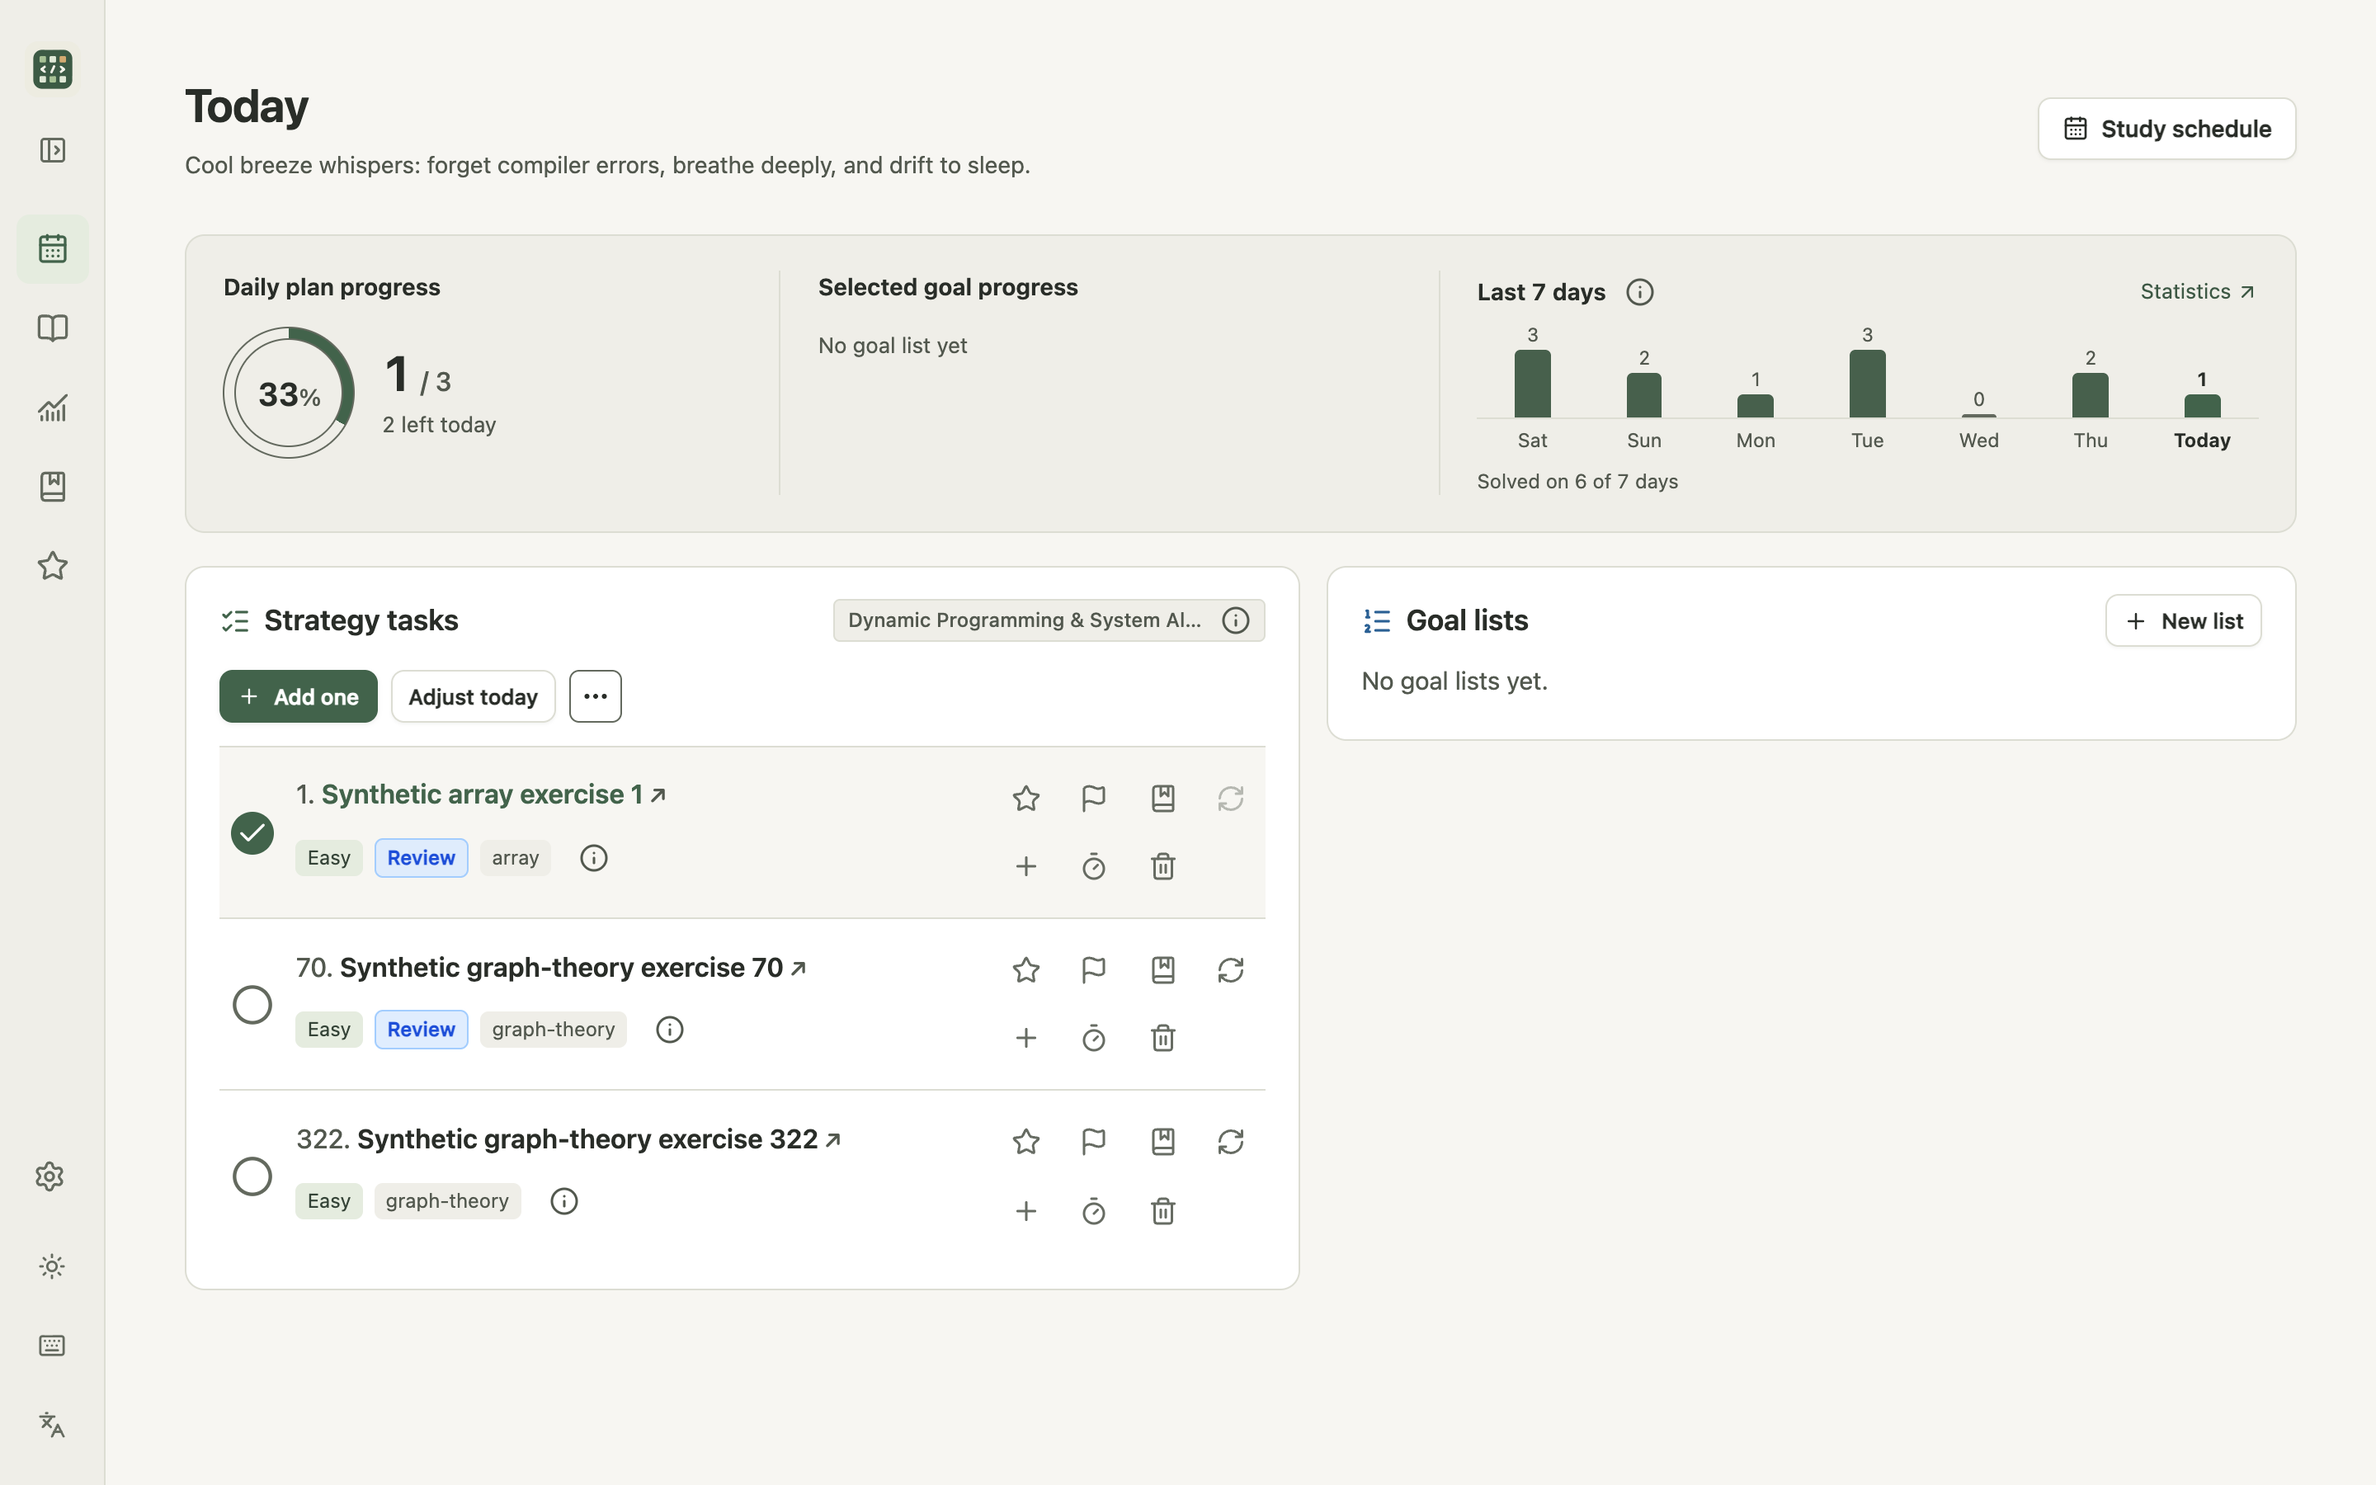
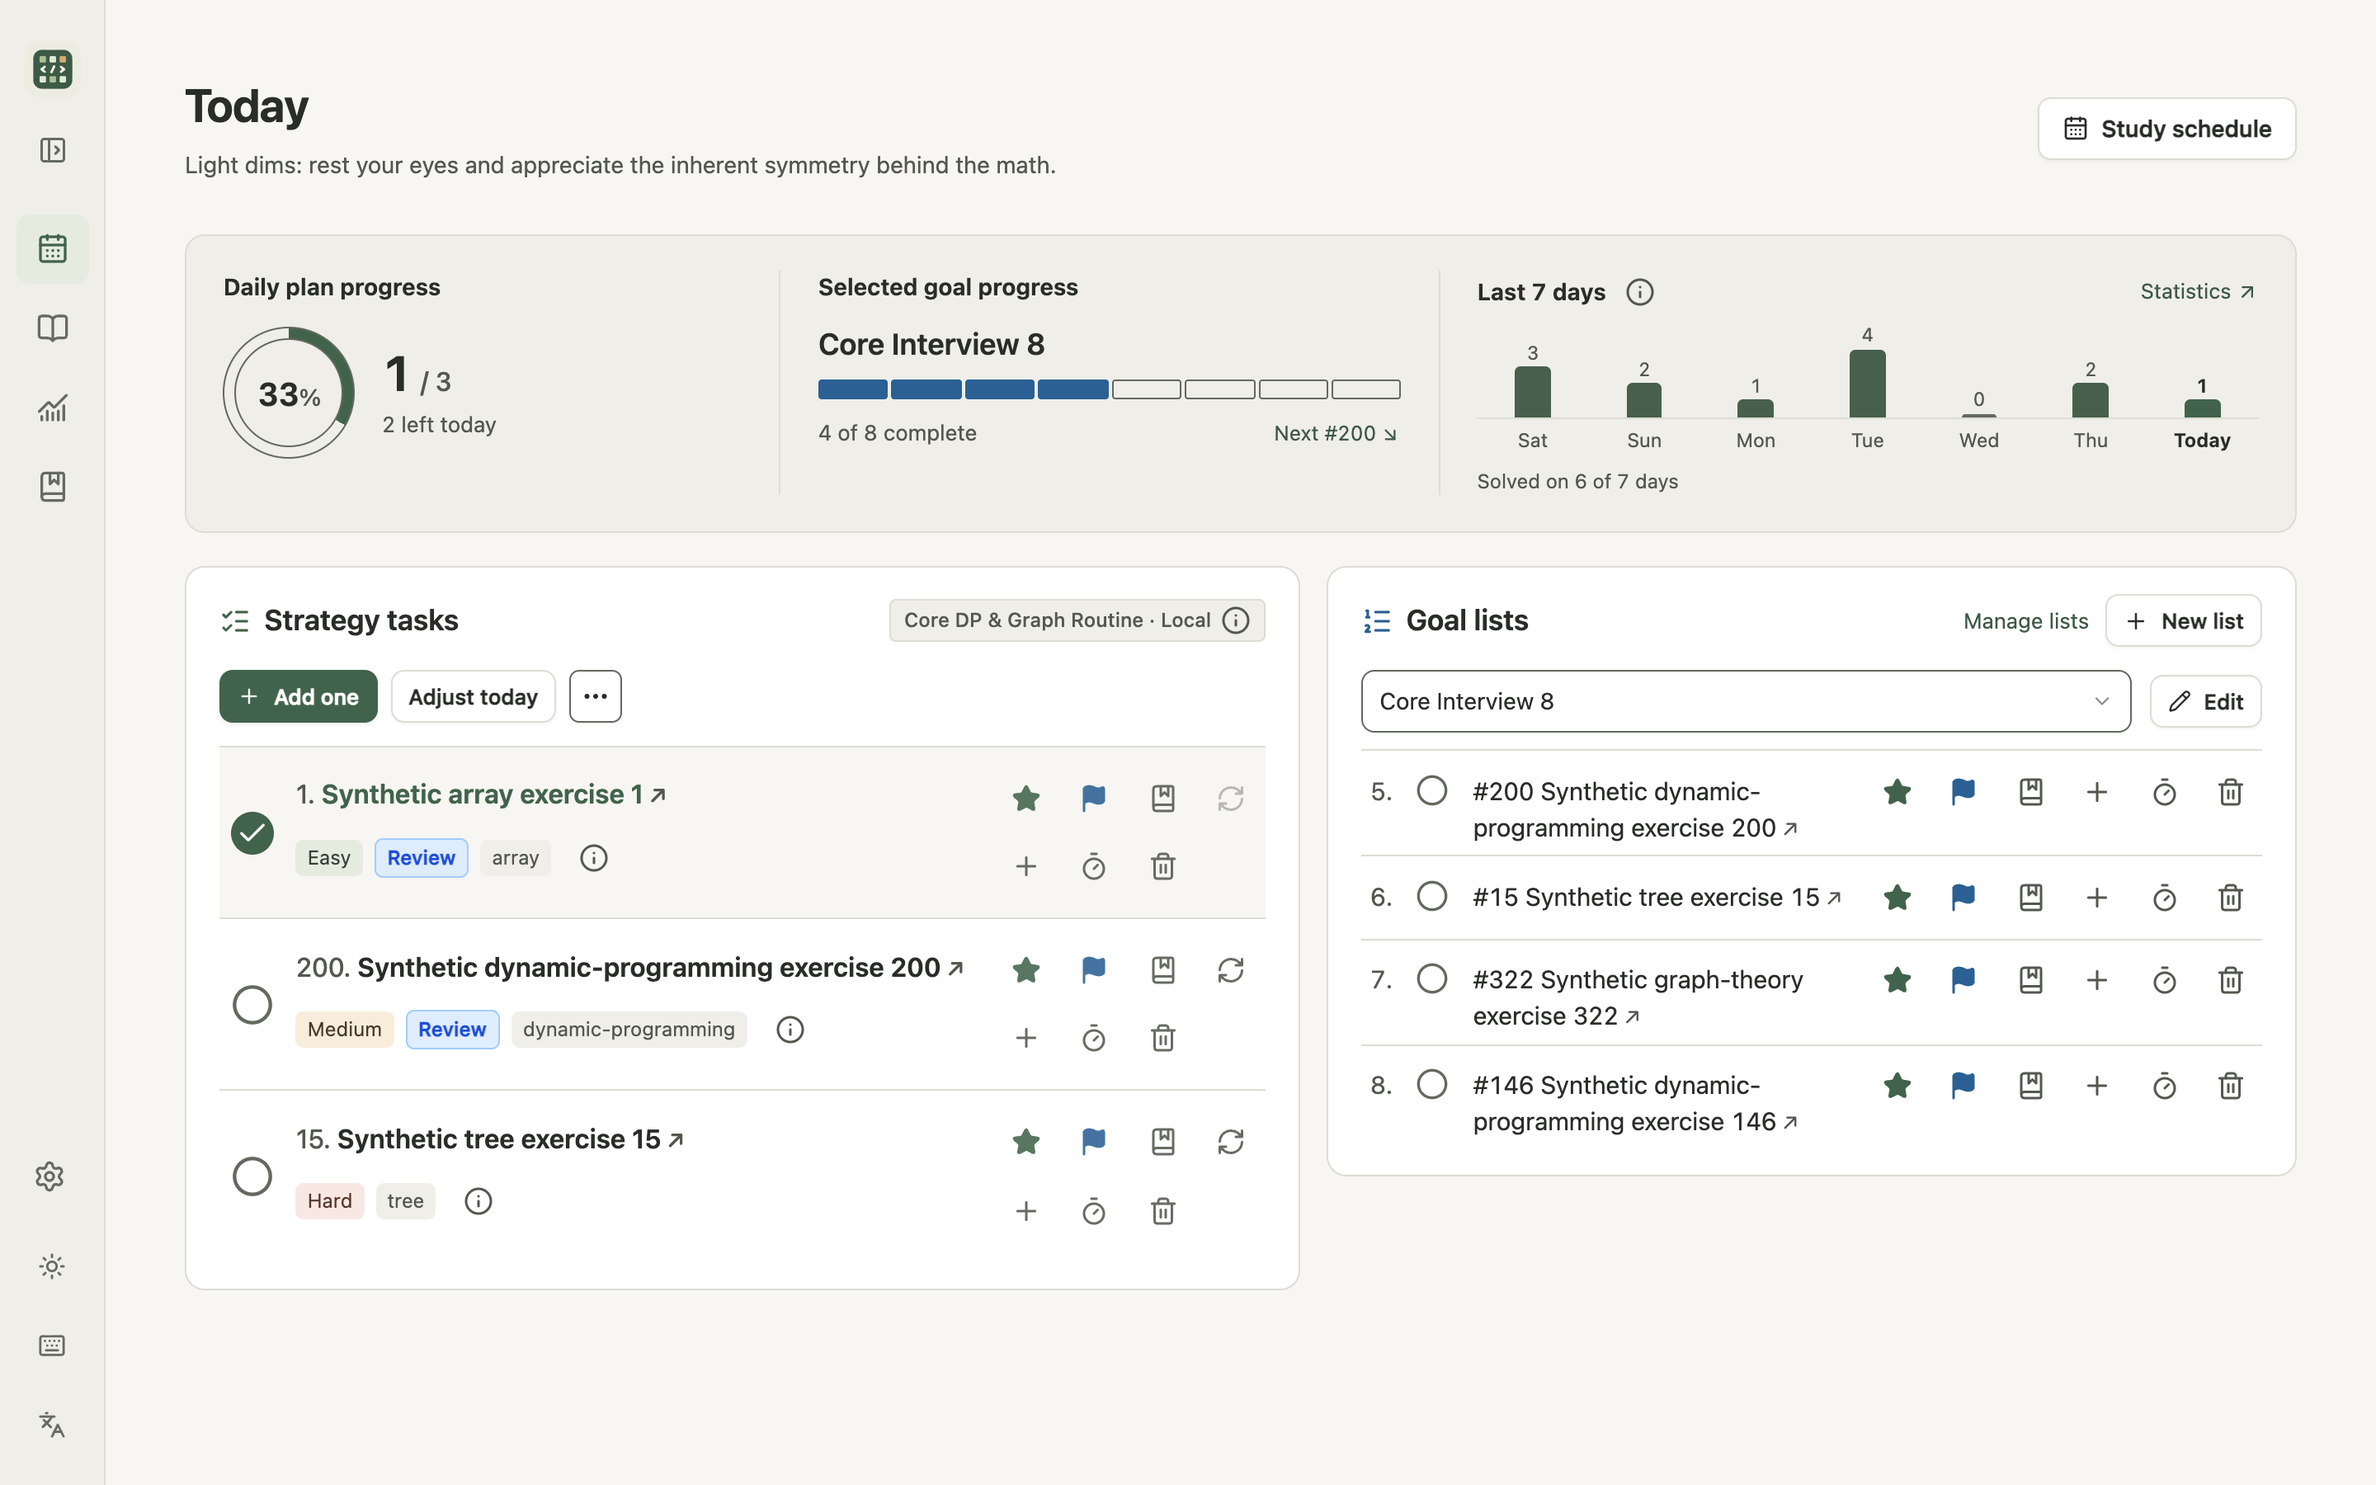
docs: refresh 1.5.1 README screenshots with goal lists and streamlined notes

diff --git a/scripts/generate-readme-assets.ts b/scripts/generate-readme-assets.ts
@@ -17,6 +17,8 @@ import * as path from 'node:path';
 import * as fs from 'node:fs';
 import { DatabaseSync } from 'node:sqlite';
 import { CatalogStore } from '../packages/database/src/store.ts';
+import { saveGoalList } from '../packages/database/src/goal-lists.ts';
+import { FAVORITE_FOLDER_PREFIX, FAVORITE_PROBLEM_PREFIX } from '../packages/database/src/favorites.ts';
 import { buildApp } from '../apps/server/src/app.ts';
 import { createSocialCatalog, socialPracticeIds } from './social-catalog.ts';
 import { localDate } from '../packages/contracts/src/time.ts';
@@ -147,9 +149,10 @@ async function main() {
     }
   }
 
-  // 4. Seed Strategy
+  // 4. Seed Strategy, Goal Lists, and Favorite Folders
+  const zh = language === 'zh';
   const showcaseStrategy = await store.planning.saveStrategy({
-    name: 'Dynamic Programming & System Algorithms',
+    name: zh ? '动态规划与图论专项' : 'Core DP & Graph Routine',
     weekdays: [1, 2, 3, 4, 5],
     rules: {
       dailyCount: 3,
@@ -158,12 +161,14 @@ async function main() {
       premium: false,
       reviewEnabled: true,
       reviewPercent: 33,
-      preference: 'Master bottom-up tabulation and memoization patterns',
+      preference: zh
+        ? '重点巩固自底向上递推与状态转移模板'
+        : 'Master bottom-up tabulation and memoization patterns',
     },
   });
 
   await store.planning.saveStrategy({
-    name: 'Weekend Hard Problem Sprint',
+    name: zh ? '周末困难题冲刺' : 'Weekend Hard Sprint',
     weekdays: [0, 6],
     rules: {
       dailyCount: 2,
@@ -172,15 +177,74 @@ async function main() {
       premium: false,
       reviewEnabled: false,
       reviewPercent: 0,
-      preference: 'Advanced topological sort, union find and hard DP',
+      preference: zh
+        ? '专注拓扑排序、并查集与高难度动态规划'
+        : 'Advanced topological sort, union find and hard DP',
     },
   });
 
+  saveGoalList(db, {
+    id: '11111111-1111-4111-8111-111111111111',
+    name: zh ? '刷题核心 8 题' : 'Core Interview 8',
+    version: 1,
+    items: [
+      { frontendId: '1', completed: true },
+      { frontendId: '206', completed: true },
+      { frontendId: '21', completed: true },
+      { frontendId: '121', completed: true },
+      { frontendId: '200', completed: false },
+      { frontendId: '15', completed: false },
+      { frontendId: '322', completed: false },
+      { frontendId: '146', completed: false },
+    ],
+  });
+
+  saveGoalList(db, {
+    id: '22222222-2222-4222-8222-222222222222',
+    name: zh ? '图论与动态规划冲刺' : 'Graph & DP Sprint',
+    version: 1,
+    items: [
+      { frontendId: '207', completed: true },
+      { frontendId: '210', completed: true },
+      { frontendId: '300', completed: false },
+      { frontendId: '198', completed: false },
+      { frontendId: '102', completed: false },
+    ],
+  });
+
+  const favFolders = [
+    { id: 'aaaaaaaa-aaaa-4aaa-8aaa-aaaaaaaaaaaa', name: zh ? '考前必刷' : 'Must Review' },
+    { id: 'bbbbbbbb-bbbb-4bbb-8bbb-bbbbbbbbbbbb', name: zh ? '边界易错题' : 'Tricky Edge Cases' },
+  ];
+  for (const folder of favFolders) {
+    db.prepare('INSERT OR REPLACE INTO catalog_meta (key, value) VALUES (?, ?)').run(
+      FAVORITE_FOLDER_PREFIX + folder.id,
+      folder.name,
+    );
+  }
+  const favoriteMemberships: Record<string, string[]> = {
+    '1': [favFolders[0].id],
+    '2': [favFolders[0].id, favFolders[1].id],
+    '3': [favFolders[1].id],
+    '15': [favFolders[0].id],
+    '200': [favFolders[0].id, favFolders[1].id],
+    '322': [favFolders[1].id],
+    '146': [favFolders[0].id],
+  };
+  for (const [frontendId, folderIds] of Object.entries(favoriteMemberships)) {
+    db.prepare('INSERT OR REPLACE INTO catalog_meta (key, value) VALUES (?, ?)').run(
+      FAVORITE_PROBLEM_PREFIX + frontendId,
+      JSON.stringify(folderIds),
+    );
+  }
+
   // 5. Seed Today Plan
   const todayDate = localDate(now, 'America/New_York');
-  const p1 = store.getProblem('1', 'frontendId') || { questionFrontendId: '1', title: 'Two Sum', difficulty: 'Easy', tags: ['Array', 'Hash Table'] };
-  const p70 = store.getProblem('70', 'frontendId') || { questionFrontendId: '70', title: 'Climbing Stairs', difficulty: 'Easy', tags: ['Dynamic Programming', 'Math'] };
-  const p322 = store.getProblem('322', 'frontendId') || { questionFrontendId: '322', title: 'Coin Change', difficulty: 'Medium', tags: ['Dynamic Programming', 'Breadth-First Search'] };
+  const planningRevisionRow = db.prepare("SELECT value FROM catalog_meta WHERE key = 'planning_revision'").get() as { value: string } | undefined;
+  const planningRevision = planningRevisionRow ? Number(planningRevisionRow.value) || 1 : 1;
+  const p1 = store.getProblem('1', 'frontendId') || { questionFrontendId: '1', title: 'Synthetic array exercise 1', difficulty: 'Easy', tags: ['Array'] };
+  const p200 = store.getProblem('200', 'frontendId') || { questionFrontendId: '200', title: 'Synthetic dynamic-programming exercise 200', difficulty: 'Medium', tags: ['Dynamic Programming'] };
+  const p15 = store.getProblem('15', 'frontendId') || { questionFrontendId: '15', title: 'Synthetic tree exercise 15', difficulty: 'Hard', tags: ['Tree'] };
 
   const planPayload = {
     id: 'daily-plan-readme',
@@ -189,7 +253,7 @@ async function main() {
     version: 1,
     strategyId: showcaseStrategy.id,
     strategyVersion: 1,
-    strategyName: 'Dynamic Programming & System Algorithms',
+    strategyName: zh ? '动态规划与图论专项' : 'Core DP & Graph Routine',
     rules: {
       dailyCount: 3,
       difficulty: { Easy: 34, Medium: 33, Hard: 33 },
@@ -197,7 +261,9 @@ async function main() {
       premium: false,
       reviewEnabled: true,
       reviewPercent: 33,
-      preference: 'Master bottom-up tabulation and memoization patterns',
+      preference: zh
+        ? '重点巩固自底向上递推与状态转移模板'
+        : 'Master bottom-up tabulation and memoization patterns',
     },
     items: [
       {
@@ -214,24 +280,24 @@ async function main() {
       },
       {
         id: 'item-2',
-        problem: p70,
+        problem: p200,
         kind: 'review' as const,
         addedAt: now - 3600000,
         reason: {
           en: 'Foundational dynamic programming problem demonstrating overlapping subproblems.',
-          zh: '动态规划入门基石，建立自底向上状态转移递推思维。',
+          zh: '动态规划经典题型，强化状态定义与滚动优化。',
         },
         evidenceIds: [],
         completed: false,
       },
       {
         id: 'item-3',
-        problem: p322,
+        problem: p15,
         kind: 'new' as const,
         addedAt: now,
         reason: {
-          en: 'Classic unbounded knapsack DP pattern with state transition optimization.',
-          zh: '经典完全背包变种，强化最优子结构分析与备忘录求解。',
+          en: 'Challenging tree traversal problem for sharpening recursion invariants.',
+          zh: '树形结构进阶挑战，重点梳理递归边界与返回值约束。',
         },
         evidenceIds: [],
         completed: false,
@@ -246,7 +312,7 @@ async function main() {
     notices: [],
     catalogRevision: store.getCatalogRevision(),
     practiceRevision: store.getPracticeRevision(),
-    planningRevision: 1,
+    planningRevision,
     algorithmVersion: 'phase4-v2',
     createdAt: now,
     updatedAt: now,
@@ -259,14 +325,17 @@ async function main() {
   `).run(planPayload.id, planPayload.date, planPayload.version, JSON.stringify(planPayload));
 
   // 6. Seed Markdown Notes
-  store.upsertProblemNote('1', `# Synthetic exercise 1
+  store.upsertProblemNote(
+    '1',
+    zh
+      ? `# 练习题 #1
 
-### 💡 Optimal Strategy
-Use a single-pass hash map to store seen elements and their corresponding indices. As we iterate through \`nums\`, check if \`target - nums[i]\` exists in the table.
+### 💡 最优思路
+使用单遍哈希表记录遍历过的元素及其下标。每次访问 \`nums[i]\` 时，检查 \`target - nums[i]\` 是否已经出现在哈希表中即可完成配对。
 
-### ⏱ Complexity
-- **Time Complexity:** $\\mathcal{O}(N)$ - single pass through the array.
-- **Space Complexity:** $\\mathcal{O}(N)$ - to store at most $N$ elements in the hash map.
+### ⏱ 复杂度分析
+- **时间复杂度：** $O(N)$，数组只需单次线性扫描。
+- **空间复杂度：** $O(N)$，哈希表最多存储 $N$ 个元素。
 
 \`\`\`cpp
 class Solution {
@@ -284,9 +353,47 @@ public:
     }
 };
 \`\`\`
-`);
+`
+      : `# Synthetic exercise 1
 
-  store.upsertProblemNote('322', `# Synthetic exercise 322
+### 💡 Optimal Strategy
+Use a single-pass hash map to store seen elements and their corresponding indices. As we iterate through \`nums\`, check if \`target - nums[i]\` exists in the table.
+
+### ⏱ Complexity
+- **Time Complexity:** $O(N)$ - single pass through the array.
+- **Space Complexity:** $O(N)$ - to store at most $N$ elements in the hash map.
+
+\`\`\`cpp
+class Solution {
+public:
+    vector<int> twoSum(vector<int>& nums, int target) {
+        unordered_map<int, int> seen;
+        for (int i = 0; i < nums.size(); ++i) {
+            int complement = target - nums[i];
+            if (seen.find(complement) != seen.end()) {
+                return {seen[complement], i};
+            }
+            seen[nums[i]] = i;
+        }
+        return {};
+    }
+};
+\`\`\`
+`,
+  );
+
+  store.upsertProblemNote(
+    '322',
+    zh
+      ? `# 练习题 #322
+
+### 💡 动态规划思路
+自底向上的一维背包 DP：令 \`dp[i]\` 表示凑出金额 \`i\` 所需的最少硬币枚数。初始化 \`dp[0] = 0\`，其余状态设为 \`amount + 1\`。
+
+### 🔄 状态转移方程
+$$dp[i] = \\min(dp[i], dp[i - c] + 1)$$
+`
+      : `# Synthetic exercise 322
 
 ### 💡 Dynamic Programming Approach
 Bottom-up 1D DP tabulation: let \`dp[i]\` represent the minimum number of coins to make up amount \`i\`.
@@ -294,7 +401,8 @@ Initialize \`dp[0] = 0\` and all other values to \`amount + 1\`.
 
 ### 🔄 Recurrence Relation
 $$dp[i] = \\min(dp[i], dp[i - c] + 1) \\quad \\forall c \\in \\text{coins}, i \\ge c$$
-`);
+`,
+  );
 
   // 7. Start Server
   console.log(`  [2/5] Starting Fastify backend on http://${host}:${port}...`);
@@ -416,7 +524,7 @@ $$dp[i] = \\min(dp[i], dp[i - c] + 1) \\quad \\forall c \\in \\text{coins}, i \\
   // Exercise the newly delivered focus control after capturing the normal workspace.
   await cdp.send('Page.navigate', { url: `http://${host}:${port}/#notes` });
   await new Promise((resolve) => setTimeout(resolve, 1000));
-  await cdp.send('Runtime.evaluate', { expression: `Array.from(document.querySelectorAll('button')).find(b => ['Zen', 'Zen Mode', '专注'].includes(b.textContent.trim()))?.click()` });
+  await cdp.send('Runtime.evaluate', { expression: `Array.from(document.querySelectorAll('button')).find(b => ['Zen', 'Zen Mode', '专注'].includes((b.getAttribute('aria-label') || b.textContent || '').trim()))?.click()` });
   await new Promise((resolve) => setTimeout(resolve, 250));
   const focused = await cdp.send('Runtime.evaluate', { expression: `document.querySelector('.notes-master-pane').style.display === 'none'`, returnByValue: true });
   if (!focused.result.value) throw new Error('Notes focus control did not hide the master list');

diff --git a/README.md b/README.md
@@ -64,7 +64,7 @@ These are format examples, not a bundled curriculum. An AI-generated catalog can
 
 ![Today's practice with an active plan](docs/assets/screenshots/01-today-overview.png)
 
-The screenshot shows Today with a generated plan. On a rest day or after the final problem is removed from the plan, the seven-day activity appears in its own card.
+The screenshot shows Today with a generated plan and an active goal list. On a rest day or after the final problem is removed from the plan, the seven-day activity appears in its own card.
 
 The unified Today panel combines plan completion, Add one / Adjust today actions, a built-in practice timer linked to practice records, clickable problem titles, dual-path Note navigation (go to workspace or quick-view slide drawer), and seven-day activity. Define reusable weekly strategies with a review cap (unused review slots become new problems), a new-problem difficulty mix, and topic preferences; review spacing is one learner-wide setting. Add one runs locally without model calls; remove completed items with explicit confirmation and inspect plan versions. Recommendations explain their source. Local code owns candidate membership, uniqueness, quotas, and persistence; optional Gemini, OpenAI, or DeepSeek assistance remains advisory. Routine explanations and encouragement are local; optional semantic selection is bounded and used only for an effective choice. Outcome-based review spacing and duration-shadow calibration (Settings › Practice), per-strategy time budgets and explicit optional feedback preserve hard filters. See [local recommendations](docs/local-recommendations.md) for development-candidate policies and validation limits.
 
